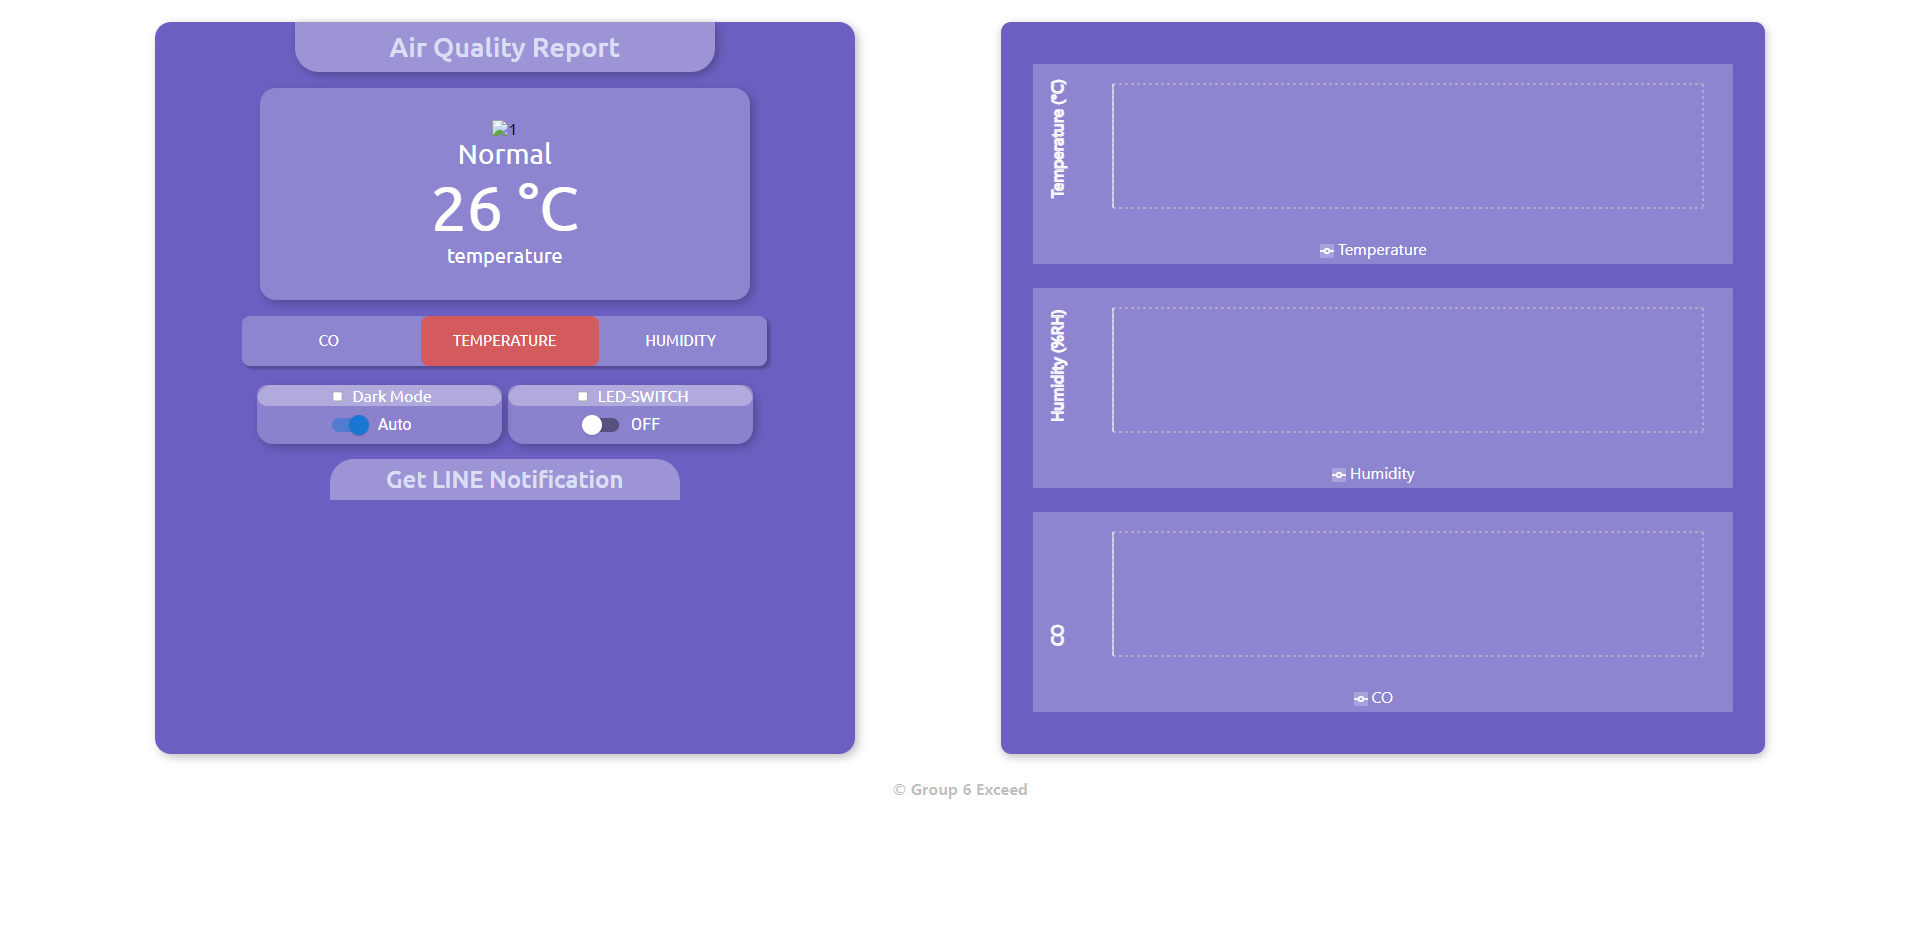
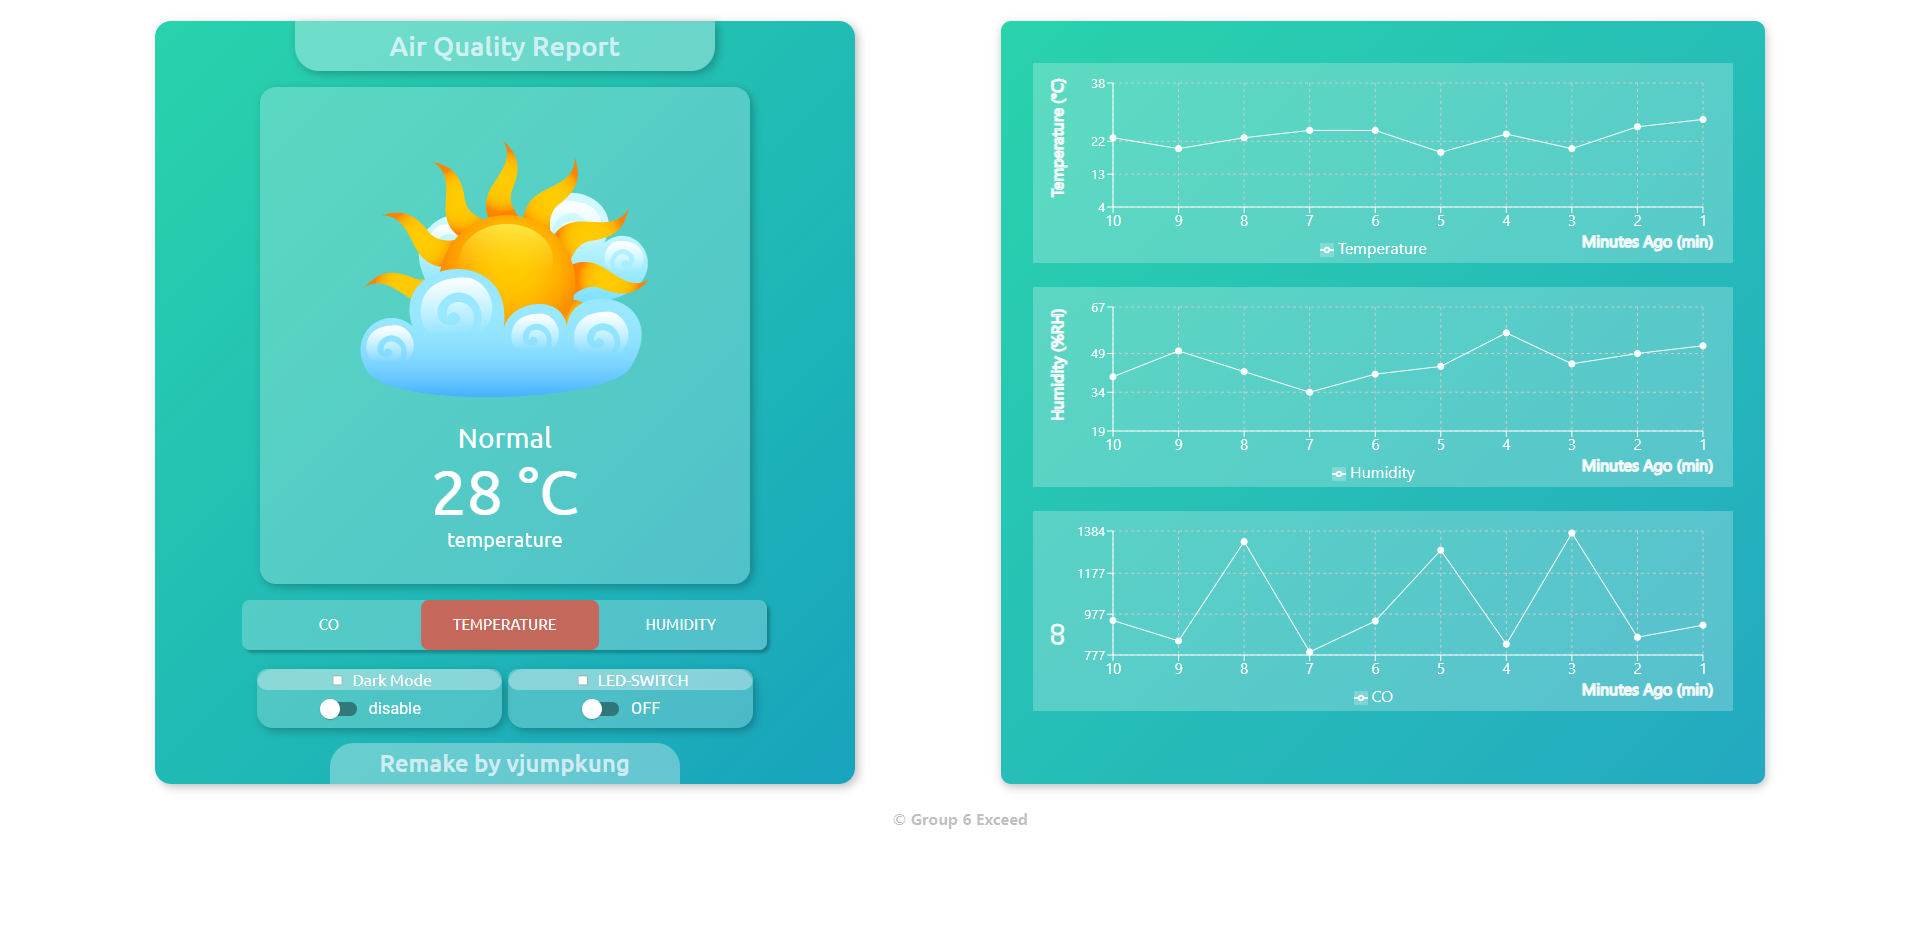
update project

diff --git a/src/pages/index.tsx b/src/pages/index.tsx
@@ -7,6 +7,11 @@ import { SocialIcon } from "react-social-icons";
 
 export const projects = [
   {
+    title: "Air Quality Report Frontend Remake",
+    link: "https://air-quality-report-frontend-remake.netlify.app/",
+    thumbnail: "/airq.png",
+  },
+  {
     title: "URL shortener",
     link: "https://vjump-short-url.vercel.app/",
     thumbnail: "/shrt.png",
@@ -50,7 +55,7 @@ export const projects = [
   {
     title: "Air Quality Report",
     link: "https://github.com/Vjumpkung/air-quality-report-backend",
-    thumbnail: "/airq.png",
+    thumbnail: "/airq-backend.png",
   },
   {
     title: "Decryptor Game",
